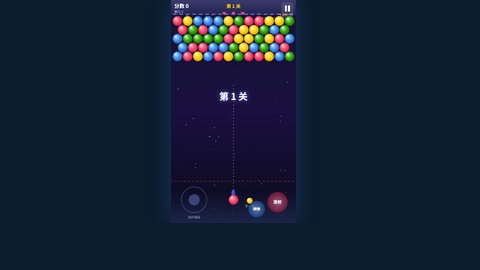
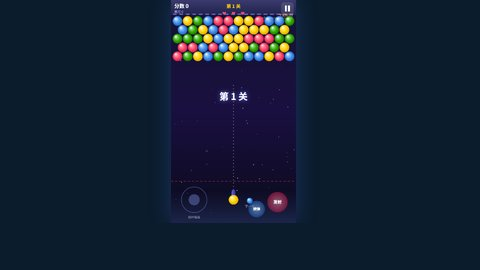
fix: 修复后台生成游戏截图黑屏并恢复缩略图
后台用隐藏 iframe 截屏时浏览器会节流 rAF，Canvas 不绘制导致上传黑图；改为可见截屏层并校验亮度，CLI 重生成玩法截图。

Changed region(s): [[0.3438, 0.0593, 0.625, 0.237], [0.4688, 0.7111, 0.5312, 0.7704]]

diff --git a/public/js/admin/game-thumbs.js b/public/js/admin/game-thumbs.js
@@ -1,12 +1,15 @@
 /**
  * Admin: capture games hub thumbnails in-browser and upload to API.
+ * Iframe must stay on-screen — hidden/off-screen iframes are rAF-throttled → black canvas.
  */
 (function () {
   'use strict';
 
   var THUMB_W = 480;
   var THUMB_H = 270;
-  var WAIT_MS = 3800;
+  var MIN_WAIT_MS = 2500;
+  var MAX_WAIT_MS = 16000;
+  var POLL_MS = 180;
 
   function tr(key, fb) {
     if (typeof window.t === 'function') {
@@ -81,6 +84,7 @@
     var ctx = c.getContext('2d');
     var sw = img.naturalWidth || img.width;
     var sh = img.naturalHeight || img.height;
+    if (!sw || !sh) throw new Error('empty image');
     var tr = w / h;
     var cr = sw / sh;
     var sx = 0;
@@ -103,18 +107,93 @@
     return i >= 0 ? dataUrl.slice(i + 1) : dataUrl;
   }
 
-  function captureFromIframe(iframe, gameplay) {
-    var doc = iframe.contentDocument;
-    if (!doc) throw new Error('iframe blocked');
+  function avgBrightness(dataUrl) {
+    return new Promise(function (resolve) {
+      var img = new Image();
+      img.onload = function () {
+        var c = document.createElement('canvas');
+        c.width = 48;
+        c.height = 48;
+        var ctx = c.getContext('2d');
+        ctx.drawImage(img, 0, 0, 48, 48);
+        var d = ctx.getImageData(0, 0, 48, 48).data;
+        var sum = 0;
+        var n = 0;
+        for (var i = 0; i < d.length; i += 4) {
+          sum += d[i] + d[i + 1] + d[i + 2];
+          n++;
+        }
+        resolve(n ? sum / n / 3 : 0);
+      };
+      img.onerror = function () { resolve(0); };
+      img.src = dataUrl;
+    });
+  }
+
+  function canvasScore(canvas) {
+    try {
+      var w = canvas.width;
+      var h = canvas.height;
+      if (w < 4 || h < 4) return 0;
+      var ctx = canvas.getContext('2d');
+      if (!ctx) return 0;
+      var sw = Math.min(48, w);
+      var sh = Math.min(48, h);
+      var d = ctx.getImageData(0, 0, sw, sh).data;
+      var sum = 0;
+      var maxDiff = 0;
+      var base = d[0] + d[1] + d[2];
+      for (var i = 0; i < d.length; i += 4) {
+        var px = d[i] + d[i + 1] + d[i + 2];
+        sum += px;
+        maxDiff = Math.max(maxDiff, Math.abs(px - base));
+      }
+      var avg = sum / (d.length / 4) / 3;
+      return avg + maxDiff * 0.35;
+    } catch (e) {
+      return 0;
+    }
+  }
+
+  function docReady(doc, gameplay) {
+    if (!doc) return false;
+    var win = doc.defaultView;
+    if (gameplay && win && win.__tbThumbReady) return true;
+    var canvas = doc.querySelector('canvas');
+    if (canvas && canvasScore(canvas) > 14) return true;
+    var board = doc.querySelector('.klotski-board, .gomoku-board, .puzzle-board, #board');
+    if (board && board.children && board.children.length > 0) return true;
+    if (!gameplay && doc.body && doc.body.innerText && doc.body.innerText.length > 20) return true;
+    return false;
+  }
+
+  function waitForReady(doc, gameplay) {
+    var start = Date.now();
+    return new Promise(function (resolve) {
+      (function poll() {
+        if (docReady(doc, gameplay) && Date.now() - start >= MIN_WAIT_MS) {
+          resolve();
+          return;
+        }
+        if (Date.now() - start >= MAX_WAIT_MS) {
+          resolve();
+          return;
+        }
+        setTimeout(poll, POLL_MS);
+      })();
+    });
+  }
+
+  function captureFromDoc(doc) {
     var canvas = doc.querySelector('canvas');
     if (canvas) {
-      return cropCover(canvas, THUMB_W, THUMB_H);
+      return Promise.resolve(cropCover(canvas, THUMB_W, THUMB_H));
     }
     var target = doc.querySelector('.game-board-wrap, .klotski-board, .puzzle-board, #board, #wrap');
     if (!target) target = doc.body;
     return loadHtml2Canvas().then(function (html2canvas) {
       return html2canvas(target, {
-        backgroundColor: null,
+        backgroundColor: '#111827',
         scale: Math.min(2, window.devicePixelRatio || 1),
         logging: false,
         useCORS: true
@@ -124,40 +203,77 @@
     });
   }
 
-  function wait(ms) {
-    return new Promise(function (r) { setTimeout(r, ms); });
+  function ensureCaptureStage(label) {
+    var stage = document.getElementById('game-thumbs-capture-stage');
+    if (!stage) {
+      stage = document.createElement('div');
+      stage.id = 'game-thumbs-capture-stage';
+      stage.innerHTML =
+        '<div class="game-thumbs-capture-inner">' +
+          '<p id="game-thumbs-capture-label"></p>' +
+          '<div id="game-thumbs-capture-frame"></div>' +
+        '</div>';
+      document.body.appendChild(stage);
+    }
+    var lab = document.getElementById('game-thumbs-capture-label');
+    if (lab) lab.textContent = label || '';
+    stage.style.display = 'flex';
+    return stage;
+  }
+
+  function hideCaptureStage() {
+    var stage = document.getElementById('game-thumbs-capture-stage');
+    if (!stage) return;
+    stage.style.display = 'none';
+    var frame = document.getElementById('game-thumbs-capture-frame');
+    if (frame) frame.innerHTML = '';
   }
 
   function captureOne(item, gameplay) {
     var origin = window.location.origin;
     var src = origin + '/' + item.url.replace(/^\/?/, '') + (gameplay ? '?thumb=1' : '');
+    ensureCaptureStage(
+      tr('privateHub.ops.gameThumbsCapturing', '正在截取：{name}').replace('{name}', item.label)
+    );
+    var frameHost = document.getElementById('game-thumbs-capture-frame');
+    if (!frameHost) return Promise.reject(new Error('capture frame missing'));
+
     return new Promise(function (resolve, reject) {
       var iframe = document.createElement('iframe');
       iframe.setAttribute('aria-hidden', 'true');
-      iframe.style.cssText = 'position:fixed;left:-9999px;top:0;width:960px;height:540px;border:0;opacity:0;pointer-events:none;';
+      iframe.style.cssText = 'width:960px;height:540px;border:0;display:block;background:#000;';
       iframe.src = src;
       var done = false;
+
       function finish(err, dataUrl) {
         if (done) return;
         done = true;
-        iframe.remove();
+        hideCaptureStage();
         if (err) reject(err);
         else resolve(dataUrl);
       }
+
       iframe.onerror = function () { finish(new Error('iframe load error')); };
       iframe.onload = function () {
-        wait(WAIT_MS).then(function () {
-          return captureFromIframe(iframe, gameplay);
-        }).then(function (dataUrl) {
-          finish(null, dataUrl);
-        }).catch(function (err) {
-          finish(err);
-        });
+        var doc = iframe.contentDocument;
+        waitForReady(doc, gameplay)
+          .then(function () { return captureFromDoc(doc); })
+          .then(function (dataUrl) {
+            return avgBrightness(dataUrl).then(function (b) {
+              if (gameplay && b < 10) {
+                throw new Error('capture too dark (' + Math.round(b) + ')');
+              }
+              return dataUrl;
+            });
+          })
+          .then(function (dataUrl) { finish(null, dataUrl); })
+          .catch(function (err) { finish(err); });
       };
-      document.body.appendChild(iframe);
+
+      frameHost.appendChild(iframe);
       setTimeout(function () {
         if (!done) finish(new Error('timeout'));
-      }, WAIT_MS + 12000);
+      }, MAX_WAIT_MS + 8000);
     });
   }
 
@@ -202,17 +318,18 @@
     var items = gameItems();
     var ok = 0;
     var fail = 0;
+    var fails = [];
 
     (function next(i) {
       if (i >= items.length) {
+        hideCaptureStage();
         if (btnPlay) btnPlay.disabled = false;
         if (btnMenu) btnMenu.disabled = false;
-        setStatus(
-          tr('privateHub.ops.gameThumbsDone', '完成：{ok} 成功，{fail} 失败')
-            .replace('{ok}', String(ok))
-            .replace('{fail}', String(fail)),
-          fail > 0
-        );
+        var msg = tr('privateHub.ops.gameThumbsDone', '完成：{ok} 成功，{fail} 失败')
+          .replace('{ok}', String(ok))
+          .replace('{fail}', String(fail));
+        if (fails.length) msg += ' — ' + fails.join(', ');
+        setStatus(msg, fail > 0);
         refreshList();
         return;
       }
@@ -228,6 +345,7 @@
         .then(function () { ok += 1; next(i + 1); })
         .catch(function (err) {
           fail += 1;
+          fails.push(item.slug);
           console.warn('thumb fail', item.slug, err);
           next(i + 1);
         });
@@ -238,14 +356,10 @@
     var btnPlay = document.getElementById('btn-game-thumbs-gameplay');
     var btnMenu = document.getElementById('btn-game-thumbs-menu');
     if (btnPlay) {
-      btnPlay.addEventListener('click', function () {
-        runAll(true);
-      });
+      btnPlay.addEventListener('click', function () { runAll(true); });
     }
     if (btnMenu) {
-      btnMenu.addEventListener('click', function () {
-        runAll(false);
-      });
+      btnMenu.addEventListener('click', function () { runAll(false); });
     }
     document.addEventListener('tb:private-ready', refreshList);
     refreshList();

diff --git a/public/html/admin/private/ladder-update.html b/public/html/admin/private/ladder-update.html
@@ -10,9 +10,9 @@
   <link href="../../../vendor/font-awesome/css/all.min.css?v=minimax1" rel="stylesheet" />
   <link rel="stylesheet" href="../../../css/base.css?v=minimax1" />
   <link rel="stylesheet" href="../../../css/site-mobile-nav.css?v=minimax1" />
-  <link rel="stylesheet" href="../../../css/admin/ladder-update.css?v=gameThumbs1" />
-  <script src="../../../js/locales/en.js?v=minimax1"></script>
-  <script src="../../../js/locales/zh-CN.js?v=minimax1"></script>
+  <link rel="stylesheet" href="../../../css/admin/ladder-update.css?v=gameThumbs2" />
+  <script src="../../../js/locales/en.js?v=gameThumbs2"></script>
+  <script src="../../../js/locales/zh-CN.js?v=gameThumbs2"></script>
   <script src="../../../js/i18n.js?v=minimax1"></script>
   <script src="../../../js/config.js?v=games8"></script>
   <script src="../../../js/common_ui.js?v=minimax1"></script>
@@ -96,6 +96,6 @@
   </main>
 
   <script src="../../../js/admin/ladder-update.js?v=gameThumbs1"></script>
-  <script src="../../../js/admin/game-thumbs.js?v=gameThumbs1"></script>
+  <script src="../../../js/admin/game-thumbs.js?v=gameThumbs2"></script>
 </body>
 </html>

diff --git a/public/css/admin/ladder-update.css b/public/css/admin/ladder-update.css
@@ -72,6 +72,37 @@ pre.game-thumbs-list {
   font-family: ui-monospace, SFMono-Regular, Menlo, Consolas, monospace;
 }
 
+#game-thumbs-capture-stage {
+  position: fixed;
+  inset: 0;
+  z-index: 99999;
+  display: none;
+  align-items: center;
+  justify-content: center;
+  background: rgba(15, 23, 42, 0.82);
+  pointer-events: none;
+}
+
+.game-thumbs-capture-inner {
+  text-align: center;
+  color: #f8fafc;
+}
+
+.game-thumbs-capture-inner p {
+  margin: 0 0 0.75rem;
+  font-size: 0.9375rem;
+}
+
+#game-thumbs-capture-frame {
+  width: 960px;
+  height: 540px;
+  max-width: calc(100vw - 24px);
+  max-height: calc(100vh - 120px);
+  border-radius: 12px;
+  overflow: hidden;
+  box-shadow: 0 20px 50px rgba(0, 0, 0, 0.45);
+}
+
 .ladder-row {
   display: flex;
   align-items: center;

diff --git a/public/js/game/thumb-preview.js b/public/js/game/thumb-preview.js
@@ -72,8 +72,24 @@
   }
 
   var attempts = 0;
+  var started = false;
+
+  function signalReady() {
+    var n = 0;
+    (function frame() {
+      n++;
+      if (n >= 6) window.__tbThumbReady = true;
+      else requestAnimationFrame(frame);
+    })();
+  }
+
   function tick() {
-    if (tryStart() || attempts++ > 80) return;
+    if (!started && tryStart()) {
+      started = true;
+      signalReady();
+      return;
+    }
+    if (started || attempts++ > 80) return;
     requestAnimationFrame(tick);
   }
 

diff --git a/public/js/locales/zh-CN.js b/public/js/locales/zh-CN.js
@@ -53,6 +53,7 @@ window.TB_LOCALES['zh-CN'] = {
             gameThumbsProgress: '正在处理 {n}/{total}：{name}',
             gameThumbsDone: '完成：{ok} 成功，{fail} 失败',
             gameThumbsMissing: '未生成',
+            gameThumbsCapturing: '正在截取：{name}',
             newsTitle: '科技资讯',
             newsDesc: '「更新资讯」抓取编译新文；「重生静态页」只按库重写 HTML',
             newsRefresh: '更新资讯',

diff --git a/public/js/locales/en.js b/public/js/locales/en.js
@@ -54,6 +54,7 @@ window.TB_LOCALES.en = {
             gameThumbsProgress: 'Processing {n}/{total}: {name}',
             gameThumbsDone: 'Done: {ok} ok, {fail} failed',
             gameThumbsMissing: 'Missing',
+            gameThumbsCapturing: 'Capturing: {name}',
             newsTitle: 'Tech news',
             newsDesc: '“Refresh news” crawls & rewrites; “Rebuild pages” regenerates HTML from DB only',
             newsRefresh: 'Refresh news',

diff --git a/public/games.html b/public/games.html
@@ -47,7 +47,7 @@
     <script src="js/i18n.js?v=minimax1"></script>
     <script src="js/config.js?v=games7"></script>
     <script src="js/common_ui.js?v=minimax1"></script>
-    <script src="js/games-hub.js?v=games9"></script>
+    <script src="js/games-hub.js?v=games10"></script>
     <script>
       (function () {
         function go() { if (typeof renderGamesHub === 'function') renderGamesHub(); }

diff --git a/public/js/games-hub.js b/public/js/games-hub.js
@@ -33,7 +33,7 @@
         var url = item.url || '';
         var m = url.match(/html\/game\/([^/?]+)\.html/i);
         if (!m) return '';
-        return 'assets/game/thumbs/' + m[1] + '.jpg?v=2';
+        return 'assets/game/thumbs/' + m[1] + '.jpg?v=3';
     }
 
     function bindSearch(toolbarEl) {
